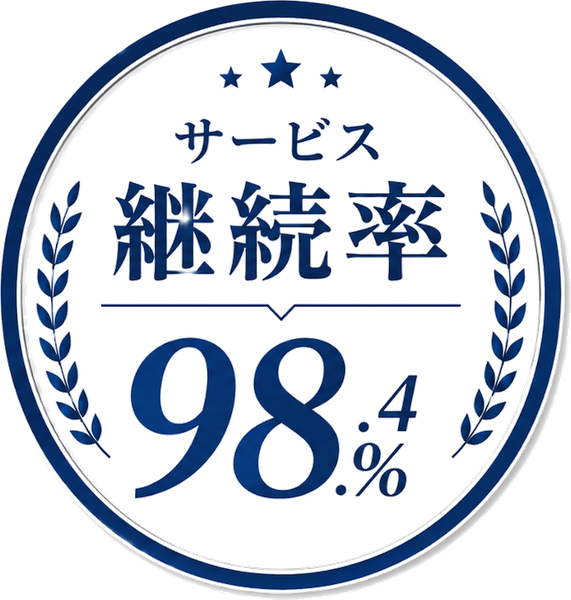
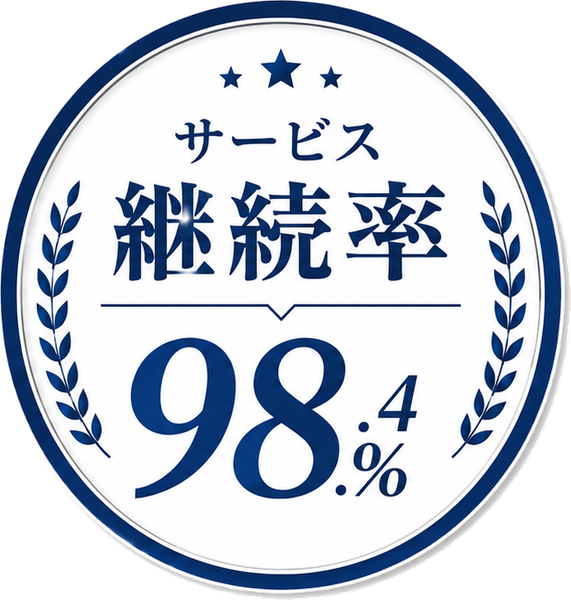
見出しをBlack(900)に太字化、メダル画像の透過バグを修正
Claude-Session: https://claude.ai/code/session_018uKfKJyAuzrhtSghCMrhar

diff --git a/.company/jutaku/clients/charge-office-lp/index.html b/.company/jutaku/clients/charge-office-lp/index.html
@@ -7,7 +7,7 @@
   <meta name="description" content="オフィスに整体師が出張する法人向けサービス。半畳のスペースとひとり約10分。初期費用0円の無料トライアルから始められます。">
   <link rel="preconnect" href="https://fonts.googleapis.com">
   <link rel="preconnect" href="https://fonts.gstatic.com" crossorigin>
-  <link href="https://fonts.googleapis.com/css2?family=Noto+Sans+JP:wght@400;700&family=Zen+Kaku+Gothic+New:wght@700&display=swap" rel="stylesheet">
+  <link href="https://fonts.googleapis.com/css2?family=Noto+Sans+JP:wght@400;700&family=Zen+Kaku+Gothic+New:wght@700;900&display=swap" rel="stylesheet">
   <link rel="stylesheet" href="styles.css">
 </head>
 <body>

diff --git a/.company/jutaku/clients/charge-office-lp/styles.css b/.company/jutaku/clients/charge-office-lp/styles.css
@@ -3120,3 +3120,11 @@ body { padding-bottom: 100px; }
   .hero .hero__overlay .hero__title { font-size: 52px !important; }
   .hero .hero__overlay .hero__stats { margin-top: 32px; }
 }
+
+/* --- 見出しを太字(Black/900)に（2026-07-29 オーナー指示） ---------------
+   Zen Kaku Gothic New の900ウエイトをHTML側で追加読み込み済み。
+   700(Bold)より濃く、参考画像の太さに近づける。 */
+.hero .hero__overlay .hero__title {
+  font-weight: 900 !important;
+  letter-spacing: 0 !important;
+}

diff --git a/.company/jutaku/clients/charge-office.md b/.company/jutaku/clients/charge-office.md
@@ -224,6 +224,14 @@
 - 見出しは既存パッチの `!important` に負けないよう同じ強さで上書き（26px〜52pxのレンジ、320〜1200pxで全て2行を維持し崩れなし）
 - 実行前に解釈を明確化してから着手（前回「続き」を実行許可と誤読した反省を踏まえ、今回は3点の解釈をすべて文章で確認してからのみ実行）
 
+### 2026-07-29（追記18）— 見出しの太字化とメダル透過ミスの修正
+
+- **見出しを900(Black)に太字化**。従来700(Bold)止まりだったのは Zen Kaku Gothic New の900ウエイトをGoogle Fontsで読み込んでいなかったため。`<link>` に `wght@700;900` を追加してから font-weight:900 を適用
+- **メダル画像の透過処理にバグを発見・修正**。前回「白ならすべて透明化」する単純な閾値処理をしたため、**右のメダル（白背景デザイン）の内側の白まで透明になっていた**（写真が透けて見える状態）
+  - 修正: 画像の**外周からBFSで繋がった白だけ**を透過するフラッドフィル方式に変更。デザインの一部である内側の白は保持される
+  - 学び: 「白を透明化」は単純な色閾値ではなく、背景と繋がっているかどうかで判定する必要がある。特に白背景デザインのバッジ・ロゴでは要注意
+- 機械チェック再実行: 数字・禁止語とも問題なし。320〜1200pxで横スクロールなし
+
 ## 振り返り（納品後に記入）
 
 - 実工数:
